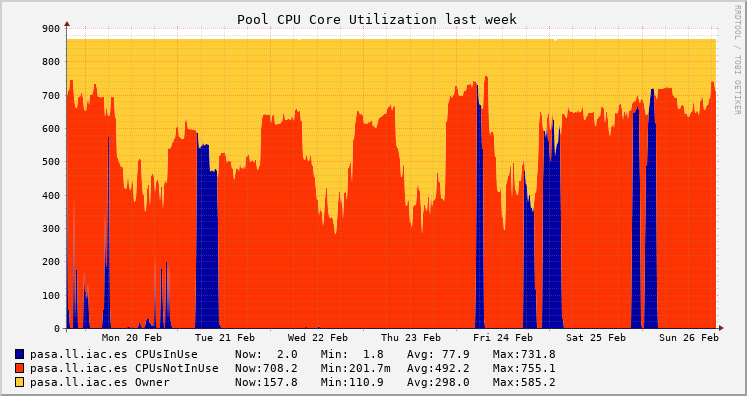
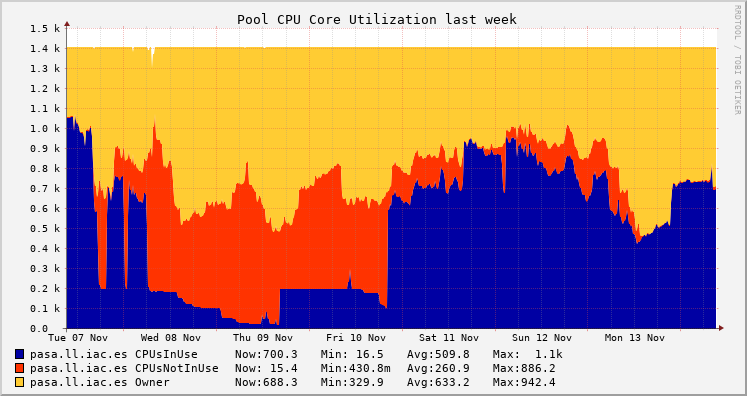
Small changes to documentation:
+ updated weekly usage image with a more recent one
+ update info about pool machines (almost no Ubuntu18.04 anymore)
+ anonymized user and machine data
+ added example to avoid a particular machine (due to malfunction, for example)
+ added important note to remind users that if submitting from burros, they
should get an interactive session to perform the submission

diff --git a/docs/index.rst b/docs/index.rst
@@ -93,8 +93,8 @@ machines make up the HTCondor\@IAC pool at any given time in the `HTCondor
 Ganglia webpage
 <http://pasa/ganglia/?r=week&cs=&ce=&c=IAC+HTCondor&h=&tab=m&vn=&hide-hf=false&m=cpu_num&sh=1&z=small&hc=4&host_regex=&max_graphs=0&s=by+name>`__.
 
-Regarding their software specifications, at present all machines are running
-Ubuntu 18.04 and the installed software should be also more or less the same in
+Regarding their software specifications, at present most machines are running
+Ubuntu 22.04 and the installed software should be also more or less the same in
 every machine (see the `software supported by the SIE
 <http://research.iac.es/sieinvens/SINFIN/Main/software_sinfin.php>`__), which
 makes it easy to run almost every application in any machine.
@@ -162,16 +162,16 @@ Start** you.
 
    ::
 
-      [angelv@denso ~]$ condor_status -compact
+      [user@node ~]$ condor_status -compact
       Machine             Platform     Slots Cpus Gpus  TotalGb FreCpu  FreeGb  CpuLoad ST
 
-      cruise.dyn.iac.es   x64/Ubuntu18 _        4          7.64      1     1.91    0.00 Oi
-      dama.ll.iac.es      x64/Ubuntu18 _       40        754.54      1    18.86    0.00 Ui
+      machine1.domain     x64/Ubuntu18 _        4          7.64      1     1.91    0.00 Oi
+      machine2.domain     x64/Ubuntu18 _       40        754.54      1    18.86    0.00 Ui
 
       [...]
 
-      villa.dyn.iac.es    x64/Ubuntu18 _       16        187.58      1    11.72    0.00 Oi
-      virus.dyn.iac.es    x64/Ubuntu18 _        8         62.73      1     7.84    0.02 Oi
+      machine29.domain    x64/Ubuntu18 _       16        187.58      1    11.72    0.00 Oi
+      machine30.domain    x64/Ubuntu18 _        8         62.73      1     7.84    0.02 Oi
 
                      Total Owner Claimed Unclaimed Matched Preempting Backfill  Drain
 
@@ -215,7 +215,7 @@ Start** you.
 
       ::
 
-         [angelv@denso ~]$ condor_submit test.condor
+         [user@node ~]$ condor_submit test.condor
          Submitting job(s)...........................................................
          100 job(s) submitted to cluster 4.
 
@@ -227,14 +227,14 @@ Start** you.
 
    ::
 
-      [angelv@denso ~]$ condor_q
+      [user@node ~]$ condor_q
 
-      -- Schedd: denso.ll.iac.es : <161.72.216.13:9618?... @ 02/27/23 09:27:40
+      -- Schedd: node.ll.iac.es : <161.72.216.13:9618?... @ 02/27/23 09:27:40
       OWNER  BATCH_NAME    SUBMITTED   DONE   RUN    IDLE  TOTAL JOB_IDS
-      angelv ID: 4        2/27 09:24      _    100      _    100 4.0-99
+      user ID: 4        2/27 09:24      _    100      _    100 4.0-99
 
       Total for query: 100 jobs; 0 completed, 0 removed, 0 idle, 100 running, 0 held, 0 suspended 
-      Total for angelv: 100 jobs; 0 completed, 0 removed, 0 idle, 100 running, 0 held, 0 suspended 
+      Total for user: 100 jobs; 0 completed, 0 removed, 0 idle, 100 running, 0 held, 0 suspended 
       Total for all users: 100 jobs; 0 completed, 0 removed, 0 idle, 100 running, 0 held, 0 suspended
 
 -  **Getting information from the logs**
@@ -253,7 +253,7 @@ Start** you.
 
    ::
 
-      [angelv@denso ~]$ cat simple.0.out 
+      [user@node ~]$ cat simple.0.out 
       Thinking really hard for 400 seconds...
       We calculated: 20
 
@@ -265,26 +265,26 @@ Start** you.
 
    ::
 
-      [angelv@denso ~]$ cat simple.log 
-      000 (004.000.000) 2023-02-27 09:24:41 Job submitted from host: <161.72.216.13:9618?addrs=161.72.216.13-9618+[2001-720-1610-50d8--d]-9618&alias=denso.ll.iac.es&noUDP&sock=schedd_3008_d0f7>
+      [user@node ~]$ cat simple.log 
+      000 (004.000.000) 2023-02-27 09:24:41 Job submitted from host: <xxx.xxx.xxx.13:9618?addrs=xxx.xxx.xxx.13-9618+[xxxx-xxx-xxxx-xxxx--d]-9618&alias=node.domain&noUDP&sock=schedd_3008_d0f7>
       ...
-      000 (004.001.000) 2023-02-27 09:24:41 Job submitted from host: <161.72.216.13:9618?addrs=161.72.216.13-9618+[2001-720-1610-50d8--d]-9618&alias=denso.ll.iac.es&noUDP&sock=schedd_3008_d0f7>
+      000 (004.001.000) 2023-02-27 09:24:41 Job submitted from host: <xxx.xxx.xxx.13:9618?addrs=xxx.xxx.xxx.13-9618+[xxxx-xxx-xxxx-xxxx--d]-9618&alias=node.domain&noUDP&sock=schedd_3008_d0f7>
       ...
-      000 (004.002.000) 2023-02-27 09:24:41 Job submitted from host: <161.72.216.13:9618?addrs=161.72.216.13-9618+[2001-720-1610-50d8--d]-9618&alias=denso.ll.iac.es&noUDP&sock=schedd_3008_d0f7>
+      000 (004.002.000) 2023-02-27 09:24:41 Job submitted from host: <xxx.xxx.xxx.13:9618?addrs=xxx.xxx.xxx.13-9618+[xxxx-xxx-xxxx-xxxx--d]-9618&alias=node.domain&noUDP&sock=schedd_3008_d0f7>
 
       [...]
 
       040 (004.002.000) 2023-02-27 09:24:47 Started transferring input files
-              Transferring to host: <161.72.216.8:9618?addrs=161.72.216.8-9618+[2001-720-1610-50d8-21e-4fff-feba-8ff9]-9618&alias=delta.ll.iac.es&noUDP&sock=slot4_3147_1899_416>
+              Transferring to host: <xxx.xxx.xxx.8:9618?addrs=xxx.xxx.xxx.8-9618+[xxxx-xxx-xxxx-xxxx-21e-4fff-feba-8ff9]-9618&alias=machine1.domain&noUDP&sock=slot4_3147_1899_416>
       ...
       040 (004.003.000) 2023-02-27 09:24:47 Started transferring input files
-              Transferring to host: <161.72.216.8:9618?addrs=161.72.216.8-9618+[2001-720-1610-50d8-21e-4fff-feba-8ff9]-9618&alias=delta.ll.iac.es&noUDP&sock=slot5_3147_1899_414>
+              Transferring to host: <xxx.xxx.xxx.8:9618?addrs=xxx.xxx.xxx.8-9618+[xxxx-xxx-xxxx-xxxx-21e-4fff-feba-8ff9]-9618&alias=machine1.domain&noUDP&sock=slot5_3147_1899_414>
 
       [...]
 
-      001 (004.002.000) 2023-02-27 09:24:48 Job executing on host: <161.72.216.8:9618?addrs=161.72.216.8-9618+[2001-720-1610-50d8-21e-4fff-feba-8ff9]-9618&alias=delta.ll.iac.es&noUDP&sock=startd_2745_6b8f>
+      001 (004.002.000) 2023-02-27 09:24:48 Job executing on host: <xxx.xxx.xxx.8:9618?addrs=xxx.xxx.xxx.8-9618+[xxxx-xxx-xxxx-xxxx-21e-4fff-feba-8ff9]-9618&alias=machine1.domain&noUDP&sock=startd_2745_6b8f>
       ...
-      001 (004.003.000) 2023-02-27 09:24:48 Job executing on host: <161.72.216.8:9618?addrs=161.72.216.8-9618+[2001-720-1610-50d8-21e-4fff-feba-8ff9]-9618&alias=delta.ll.iac.es&noUDP&sock=startd_2745_6b8f>
+      001 (004.003.000) 2023-02-27 09:24:48 Job executing on host: <xxx.xxx.xxx.8:9618?addrs=xxx.xxx.xxx.8-9618+[xxxx-xxx-xxxx-xxxx-21e-4fff-feba-8ff9]-9618&alias=machine1.domain&noUDP&sock=startd_2745_6b8f>
 
       [...]
 
@@ -464,8 +464,9 @@ the most common ones (*commands are case-insensitive*):
    -  ``request_memory``, ``request_disk`` to request machines with at
       least a certain amount of total RAM memory or fee disk space
    -  ``requirements`` a very useful command to register any special
-      needs for a job (for example, if you need to avoid certain
-      machines, or you need machines with a given OS, etc.)
+      needs for a job. For example: to avoid a malfunctioning machine (``Requirements =
+      (Machine != "node.domain")``; to request machines with a given OS
+      version (see note below), etc.
    -  ``rank`` you can specify some values or combination of them (total
       memory, free disk space, MIPS, etc.) and HTCondor will choose the
       best machines for your jobs according to your specifications,
@@ -508,9 +509,9 @@ Examples
 
 .. note::
 
-   Currently the IAC HTCondor Pool has both ``Ubuntu18`` and ``Ubuntu22``
-   machines. As explained in the `condor_submit
-   <https://htcondor.readthedocs.io/en/latest/man-pages/condor_submit.html>`__
+   Currently the IAC HTCondor Pool has mostly ``Ubuntu22`` machines but also a
+   few ``Ubuntu18`` ones. As explained in the `condor_submit
+   <https://htcondor.readthedocs.io/en/23.0/man-pages/condor_submit.html>`__
    documentation, HTCondor will schedule jobs to run in machines with the same
    ``Arch`` and ``OpSys`` values of the submit machine. These values are not
    sufficient to differentiate the ``Ubuntu18`` and the ``Ubuntu22`` machines
@@ -648,6 +649,22 @@ Submitting jobs
    and/or jobs may cause a waste of time and resources if they fail, and
    also your priority will be lower in following submissions.
 
+.. important::
+
+   HTCondor\@IAC is installed in a number of *burros* and in some desktop
+   PCs. As explained in the `Burros <../burros/index.html>`__ section, these
+   machines have a queue system installed, and if not using it, only the
+   equivalent of a very small system will be available to you. This is important
+   to remember when submitting jobs, because if we are submitting many jobs,
+   ``condor_submit`` might need to have access to more resources or the progress
+   might be quite slow. Thus, it is recommended that if using one of the
+   *burros* to submit jobs to HTCondor you do it from a `Slurm interactive
+   session <../burros/index.html#getting-an-interactive-session>`__ (the
+   interactive session is only needed when running the ``condor_submit``
+   command. Once the command returns, the jobs are in the HTCondor Pool and you
+   can safely exit the interactive session).  
+
+   
 -  ``condor_submit <submit_file>`` Submit jobs to the HTCondor queue
    according to the information specified in ``submit_file``. Visit the
    **submit file page** to see some examples of these files. There are
@@ -1127,4 +1144,8 @@ IAC-Zulip
 
 ..
   Hours = slots*24 ; years= hours/24/365
+  
+..
+  |URL| substitution inside URLs does not work, so in URLs I put the value
+  explicitly. 
   
